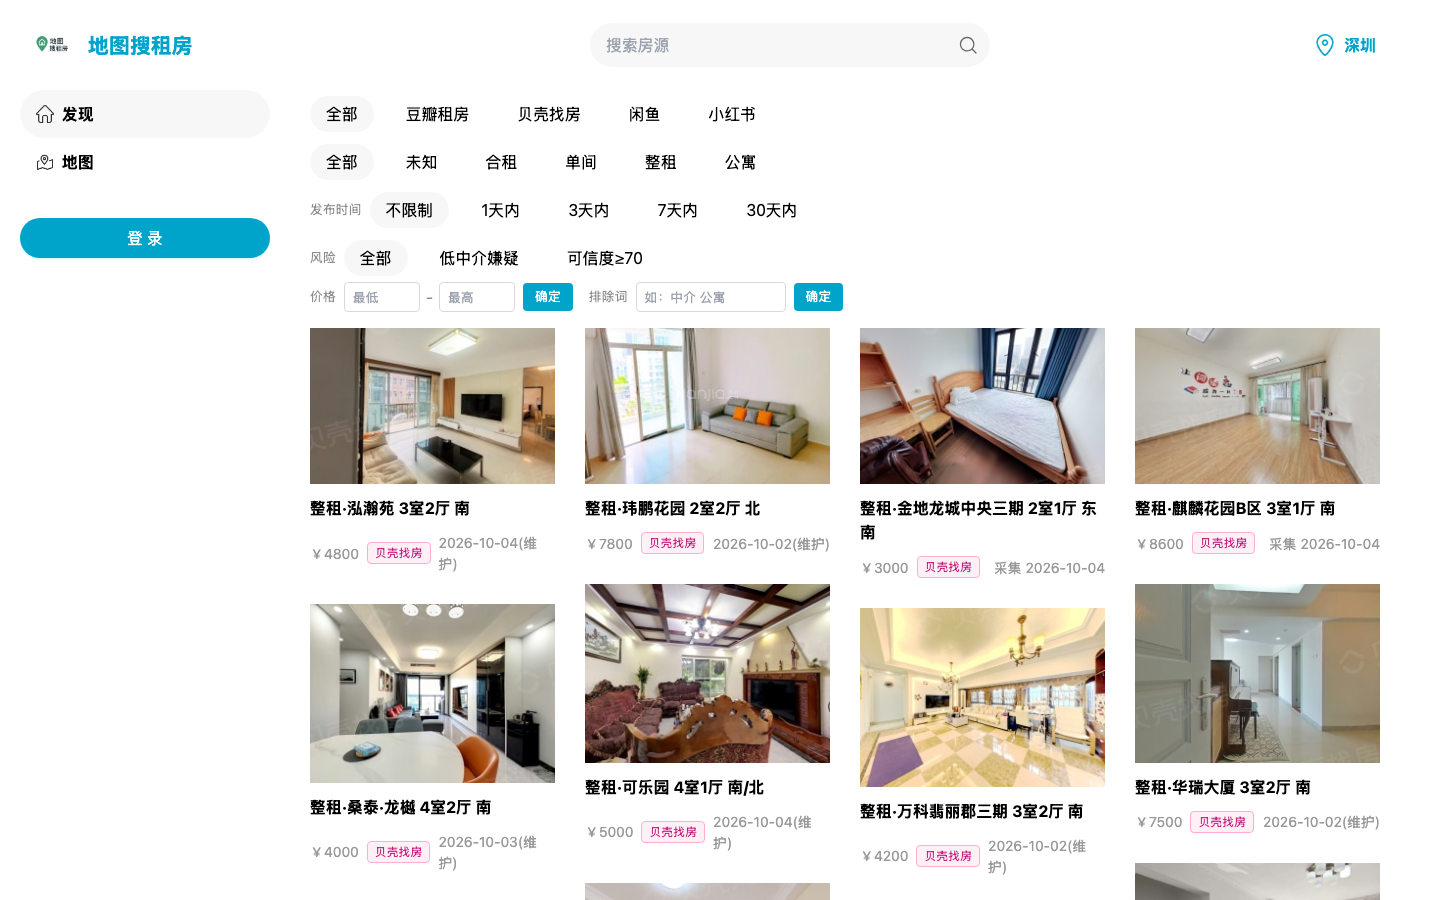
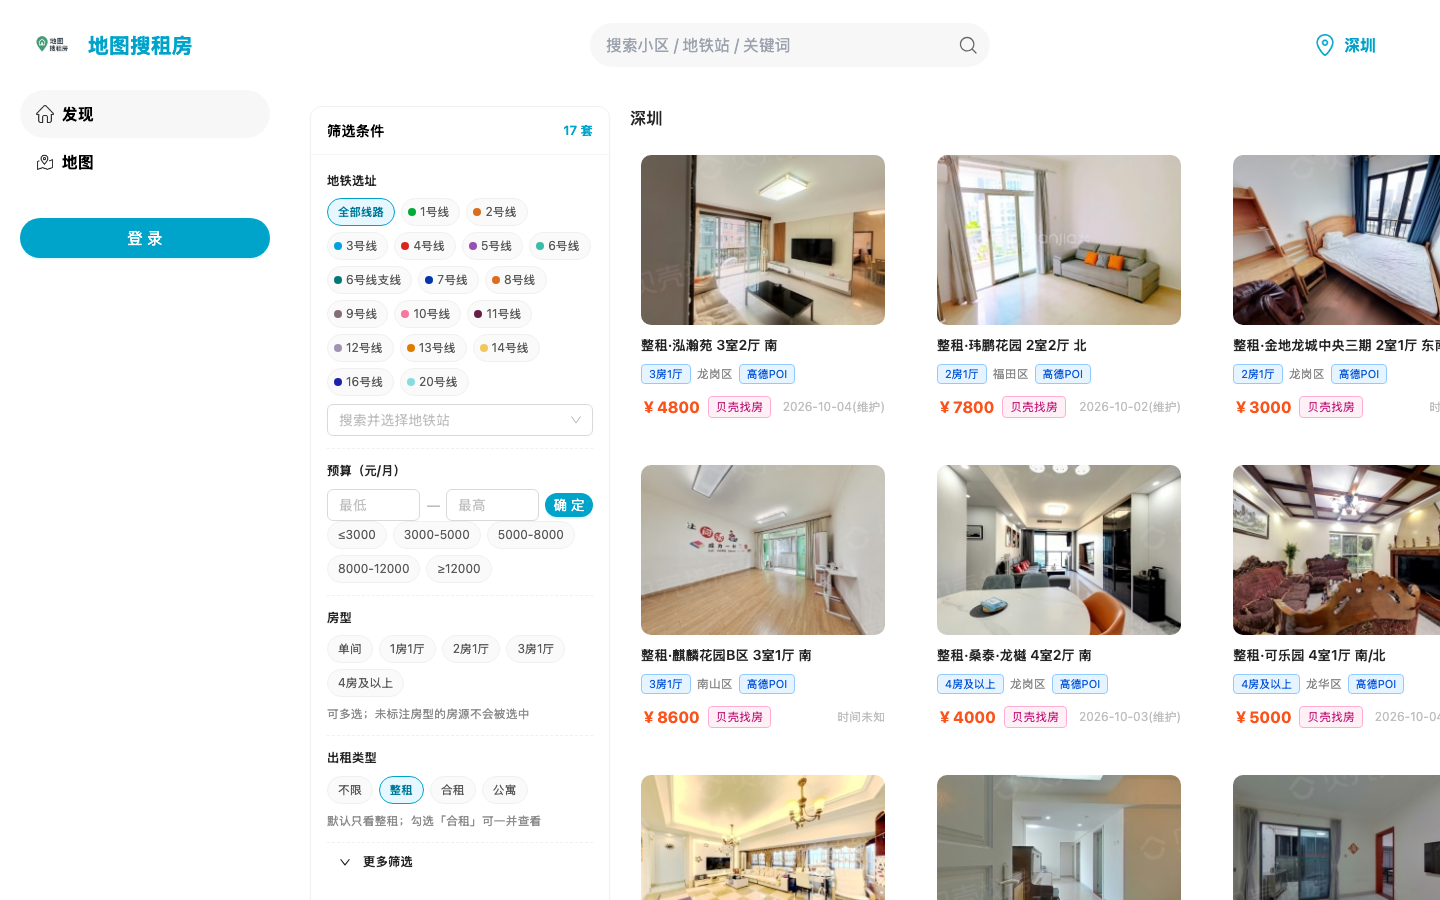
test(ui): 修正冒烟测试断言以匹配新版筛选面板
新版筛选面板把「发布时间 / 风险 / 排除关键词 / 数据准备」收进了
「更多筛选」折叠区（默认收起），旧断言在首屏找这些文字必然失败——
是测试过时，不是功能回归。另外地图页会懒加载数百条高德瓦片请求，
关闭浏览器时会大量中断（net::ERR_ABORTED），也不应算作失败请求。

- 首屏改为校验常驻区块：筛选条件 / 地铁选址 / 预算 / 房型 / 出租类型（默认整租）
- 增加展开更多筛选后再校验的步骤（发布时间 / 风险 / 排除关键词 / 数据准备）
- 失败请求判定排除地图瓦片与统计域名，并单独说明被排除的数量

实测 23 项全通过（原 17 项 + 新增的分层校验）。

diff --git a/tests/test_ui_smoke.py b/tests/test_ui_smoke.py
@@ -61,12 +61,26 @@ async def run(base: str, city: str, screenshot: str) -> int:
         print(f"\n【打开列表页】{base}/houses-list?city={city}")
         await page.goto(f"{base}/houses-list?city={city}", wait_until="networkidle")
 
-        # 筛选栏（本轮新增的筛选项）
+        # 筛选栏：常驻显示的区块（地铁选址/预算/房型/出租类型）
         body_text = await page.inner_text("body")
-        check("筛选栏渲染出「排除词」", "排除词" in body_text)
-        check("筛选栏渲染出「发布时间」", "发布时间" in body_text)
-        check("筛选栏渲染出「风险」", "风险" in body_text)
-        check("筛选栏渲染出「可信度≥70」", "可信度≥70" in body_text)
+        check("筛选栏渲染出「筛选条件」标题", "筛选条件" in body_text)
+        check("筛选栏渲染出「地铁选址」", "地铁选址" in body_text)
+        check("筛选栏渲染出「预算」", "预算" in body_text)
+        check("筛选栏渲染出「房型」", "房型" in body_text)
+        check("筛选栏渲染出房型档位「2房1厅」", "2房1厅" in body_text)
+        check("筛选栏渲染出「出租类型」且默认整租", "出租类型" in body_text and "整租" in body_text)
+
+        # 「更多筛选」默认折叠，展开后再校验其余条件
+        try:
+            await page.click("text=更多筛选", timeout=5000)
+            await page.wait_for_timeout(800)
+            expanded_text = await page.inner_text("body")
+            check("展开「更多筛选」后有「发布时间」", "发布时间" in expanded_text)
+            check("展开「更多筛选」后有「风险」", "风险" in expanded_text)
+            check("展开「更多筛选」后有「排除关键词」", "排除关键词" in expanded_text)
+            check("展开「更多筛选」后有「数据准备」", "数据准备" in expanded_text)
+        except Exception as e:
+            check("展开「更多筛选」", False, f"{type(e).__name__}: {e}")
 
         # 房源卡片
         try:
@@ -165,9 +179,19 @@ async def run(base: str, city: str, screenshot: str) -> int:
     real_errors = [e for e in console_errors if "favicon" not in e.lower()]
     check("无 JS 控制台错误", not real_errors,
           f"{len(real_errors)} 条" + (f": {real_errors[0][:80]}" if real_errors else ""))
-    check("无失败的网络请求", not failed_requests,
-          f"{len(failed_requests)} 条" +
-          (f": {failed_requests[0][:80]}" if failed_requests else ""))
+
+    # 地图瓦片是懒加载的 CDN 资源，关闭浏览器时会大量中断（net::ERR_ABORTED），
+    # 属于正常现象，不计入"失败请求"；只看我们自己的接口请求。
+    IGNORED_HOSTS = ("amap.com", "autonavi.com", "google-analytics.com",
+                     "googletagmanager.com", "favicon")
+    real_failures = [
+        r for r in failed_requests
+        if not any(host in r.lower() for host in IGNORED_HOSTS)
+    ]
+    check("无失败的业务请求（已排除地图瓦片与统计域名）", not real_failures,
+          f"{len(real_failures)} 条"
+          + (f": {real_failures[0][:80]}" if real_failures else "")
+          + f"（另有 {len(failed_requests) - len(real_failures)} 条地图瓦片中断，属正常）")
 
     print("\n" + "=" * 60)
     print(f"UI 冒烟结果: ✅ 通过 {PASSED} | ❌ 失败 {FAILED}")
